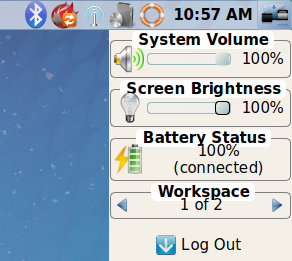
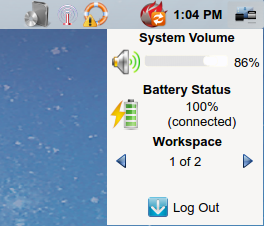
Start updates to Lumina chapter.

diff --git a/src-qt5/docs/desktops.rst b/src-qt5/docs/desktops.rst
@@ -347,10 +347,11 @@ The "User" button provides quick access for user interaction with the system. Th
   manager by clicking the "Browse" button. You also have the same little "star" on directories that can be clicked to mark that directory as a favorite if you
   want quick access to it later.
 
-* **Desktop Preferences:** the yellow tool icon provides quick shortcuts to system and desktop configuration utilities.
+* **Desktop Preferences:** the yellow tool icon provides quick shortcuts to system and desktop configuration utilities. It also contains "About the Lumina Desktop"
+  which can be clicked to determine the installed version of Lumina.
 
 If you are on PC-BSD®, or a supported operating system, you should have links to the operating system's control panel, the desktop configuration utility
-(:command:`lumina-config`), :command:`qt-config` (if it is installed), and the screensaver configuration utility.
+(:command:`lumina-config`), :command:`qt-config` (if it is installed), the screen configuration utility (:command:`lumina-xconfig`), and the screensaver configuration utility.
 
 Any open windows or applications will have a button appear in the section of the panel near the "User" button. If the application provides an icon, the button
 will appear as that icon and if you mouse over it, the tooltip will show the name of the application. If you have multiple copies of an application running,
@@ -359,7 +360,7 @@ that window active. If there are multiple windows, you can select the particular
 depending on the state of the window: grey for a hidden or minimized window, white for a visible but inactive window, yellow for the active window, and orange
 for a window that needs attention.
 
-The system tray is located in the right portion of the panel. Any applications that register a tray icon will appear in this area. Clicking an icon to
+The system tray is located in the right portion of the panel. Any applications that register a tray icon will appear in this area. Click an icon to
 interact with that application directly. The current system time shown by the clock is in the default format for the current locale.
 
 .. index:: Lumina
@@ -379,15 +380,13 @@ This button provides quick access to hardware-specific information or operations
 * A slider for changing the audio volume for the system from 0% to 100%. If the operating system provides a mixer utility, an icon will also appear. Click the
   icon to launch that mixer utility for advanced control of the audio system.
 
-* A slider for changing the screen brightness from 0% to 100%. 
-
 * The current status of the battery, if your system has one, and the estimated time remaining if that battery is discharging.
 
-* A listing of the number of virtual workspaces that are in use, with buttons to switch between the different workspaces. 
+* A listing of the number of virtual workspaces that are in use, with arrows to switch between the different workspaces. 
 
-* The log out button for ending the desktop session. When the log out button is clicked, a window of choices will be displayed in the middle of the screen.
-  The choices include: "Log Out", "Restart" (if the user has permission), "Shutdown" (if the user has permission), "Cancel" (to exit the choice menu), and
-  "Lock Screen".
+* The "Log Out" button for ending the desktop session. When the "Log Out" button is clicked, a window of choices will be displayed in the middle of the screen.
+  The choices include: "Log Out", "Restart" (if the user has permission), "Shutdown" (if the user has permission), "Cancel" (to exit the choice menu), "Lock" (which returns
+  to a login menu), and "Suspend" (press the system's power button to login and resume operation).
   
 .. index:: Lumina
 .. _Right-Click Menu:
@@ -401,6 +400,8 @@ workspace. While this menu can be customized, here is a quick summary of the def
 * **Terminal:** used to launch a system terminal. The default is :command:`xterm`, but this can be customized.
 
 * **Browse System:** launches the file manager. The default file manager, Insight, is recommended but this can be customized.
+
+* **Settings:** contains configuration shortcuts for the screensaver, desktop, and screen, as well as a shortcut to :ref:`Control Panel` and for determining the version of Lumina.
 
 * **Unlock/Lock Desktop:** used to lock or unlock the desktop plugins. When unlocked, desktop plugins become "active" and can be moved, resized, or removed
   from the desktop. It is recommended to leave the desktop locked during normal operations.
@@ -418,28 +419,34 @@ Lumina Configuration Utility
 ----------------------------
 
 The Lumina Configuration utility, shown in Figure 6.9c, allows the user to configure every aspect of the desktop and is the recommended way to make changes.
-To launch this utility, click the :menuselection:`Desktop Preferences icon --> Desktop Appearance/Plugins` or type :command:`lumina-config` from an xterm.
+To launch this utility, click the "User" icon then :menuselection:`Desktop Preferences --> Desktop Appearance/Plugins` or, right-click the desktop and click
+:menuselection:`Settings --> Desktop`, or type :command:`lumina-config` from an xterm.
 
 **Figure 6.9c: Lumina Desktop Configuration**
 
 .. image:: images/lumina3.png
 
 Each of the tabs at the top configures a different area of the system, with the most frequently changed options on the left side. Once changes have been made,
-the "Save Changes" button at the bottom of the window will become active. This allows the user to setup multiple changes in any tabs and apply them all at the
+the "Save Changes" button at the bottom of the window will become active. This allows the user to setup multiple changes in any tab and apply them all at the
 same time.
 
 .. note:: if you make any changes in any of the tabs, click "Save Changes" before exiting this utility in order to save them.
 
 The following tabs are available: 
 
-**Desktop:** this tab is used to change the visual appearance and functionality of the desktop on a per-screen basis. It can be used to add or remove the
-image(s) to use for the desktop's wallpaper. If multiple images are selected, the "Rotate Background" button can be selected as well as a specified time
-interval in minutes to rotate to the next image.
+**Appearance:** this tab is used to change the visual appearance and functionality of the desktop on a per-screen basis. The "Wallpaper" tab can be used to add
+("+" button) or remove ("-" button) the image(s) to use for the desktop's wallpaper. If multiple images are selected, the "Rotate Background" button can be selected
+as well as a specified time interval in minutes to rotate to the next image.
 
-New plugins can be added using the bottom of this tab. Select the type of plugin from the drop-down menu then click the "+" button to immediately add it to
-the desktop.
+Click the "Theme" tab to change the default font, font size, theme template, color scheme, and icon pack. It is possible to create your own theme template or color
+scheme by clicking the "Edit" button next to those options and changing the settings as necessary. Note that the theme templates are written as Qt stylesheets, so some
+scripting experience may be helpful when configuring a theme.
 
-**Panels:** the "Panels" tab, shown in Figure 6.9d, allows the user to add, remove, and configure the desktop panel. Panels must be aligned along a screen
+**Interface:** the "Interface" tab, shown in Figure 6.9d, allows the user to add, remove, and configure panels. The "Desktop" tab contains settings for the default
+desktop panel. Click the "+" in the "Quick-Access Menu" section to add
+
+Click the "Panels" tab to
+Panels must be aligned along a screen
 edge, opposite screen edges in the case of two panels, and may have any width, color, or transparency. Use the "Location" drop-down menu to set the location
 of the panel and the "Size" and "Color" options to set the panel width and color. If you would like the panel to be hidden unless the mouse is hovered over
 it, check the box "Auto-hide Panel".
@@ -489,10 +496,6 @@ frequent basis.
 .. image:: images/lumina8.png
 
 This section is further subdivided into tabs that are used for various areas of the system: 
-
-* **Theme:** this tab allows the user to change the default font, font size, theme template, color scheme, and icon pack. It is possible to create your own
-  theme template or color scheme by clicking the buttons next to those options and changing the settings as necessary. Note that the theme templates are
-  written as Qt stylesheets, so some scripting experience may be helpful when configuring a theme.
 
 * **General Options:** this tab contains the following options: "Enable numlock on startup", "Play chimes on startup", and "Play chimes on exit". It can also
   be used to change the user's icon which appears in the login menu and to reset the desktop settings to either system defaults or Lumina defaults.

diff --git a/src-qt5/docs/introduction.rst b/src-qt5/docs/introduction.rst
@@ -182,6 +182,8 @@ The following features or enhancements were introduced for PC-BSD® 10.1.2:
 
 * `OpenNTPD <http://www.openntpd.org/>`_ has replaced the default NTP as it has fewer security vulnerabilities.
 
+* Lumina has been updated to 0.8.4-Release-P1.
+
 * The ability to login as a :ref:`PersonaCrypt` user has been added. This allows a user to use a removable, encrypted device as their home directory.
 
 * The ability to log into a "stealth session" has been added. A stealth session creates an encrypted zvol as a temporary home directory for that login session.
@@ -203,6 +205,15 @@ The following features or enhancements were introduced for PC-BSD® 10.1.2:
 * The options in the :ref:`Advanced Mode` screen of the installer have been streamlined.
 
 * The ability to create a :ref:`PersonaCrypt` user and to specify a UID has been added to the :ref:`Create a User Screen`.
+
+* The :command:`lumina-xconfig` utility has been added to Lumina for adding, removing, and re-arranging screens in the current X session. This utility can be accessed
+  from :menuselection:`Desktop Preferences --> Screen Configuration` while logged into the Lumina desktop.
+
+* The "Lock" and "Suspend" buttons have been added to the Lumina "Log Out" screen.
+
+* A "Settings" menu has been added to the right-click menu of the Lumina desktop.
+
+* The :ref:`Lumina Configuration Utility` has been reorganized.
 
 * The new AppCafe®, formerly called AppCafe® Remote, has replaced the old version of AppCafe®.
 
